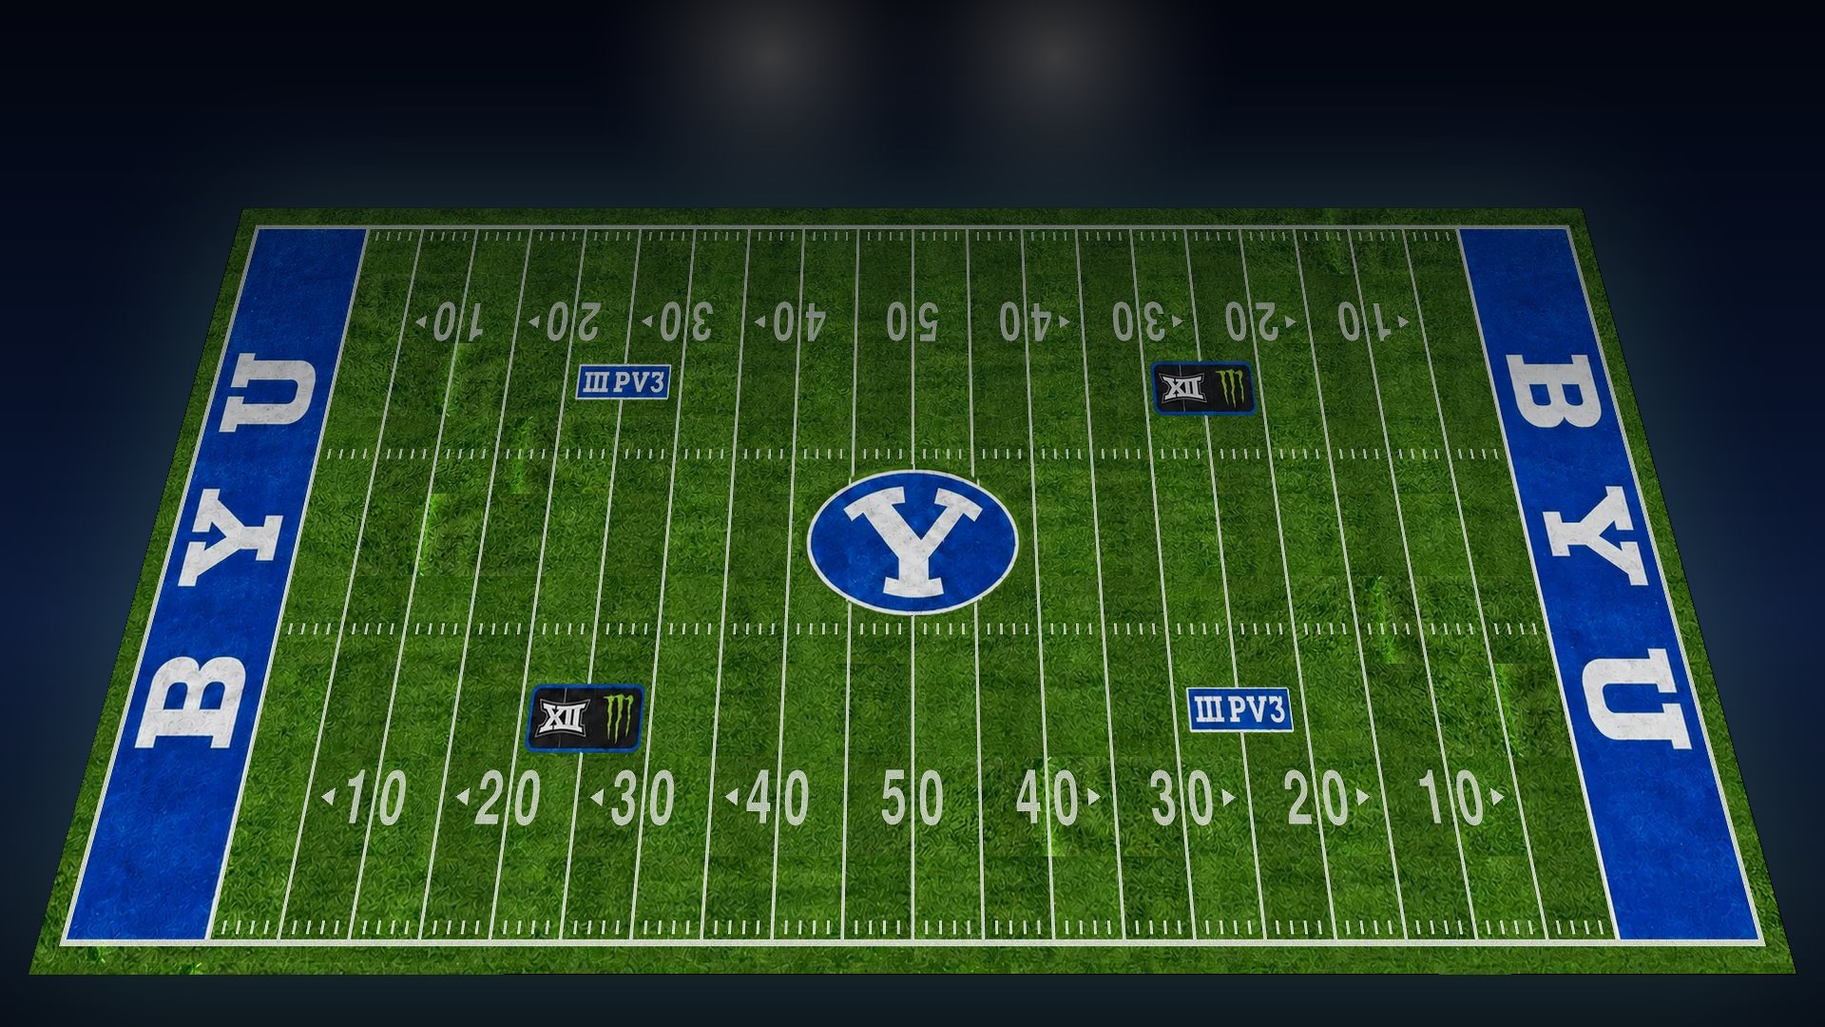
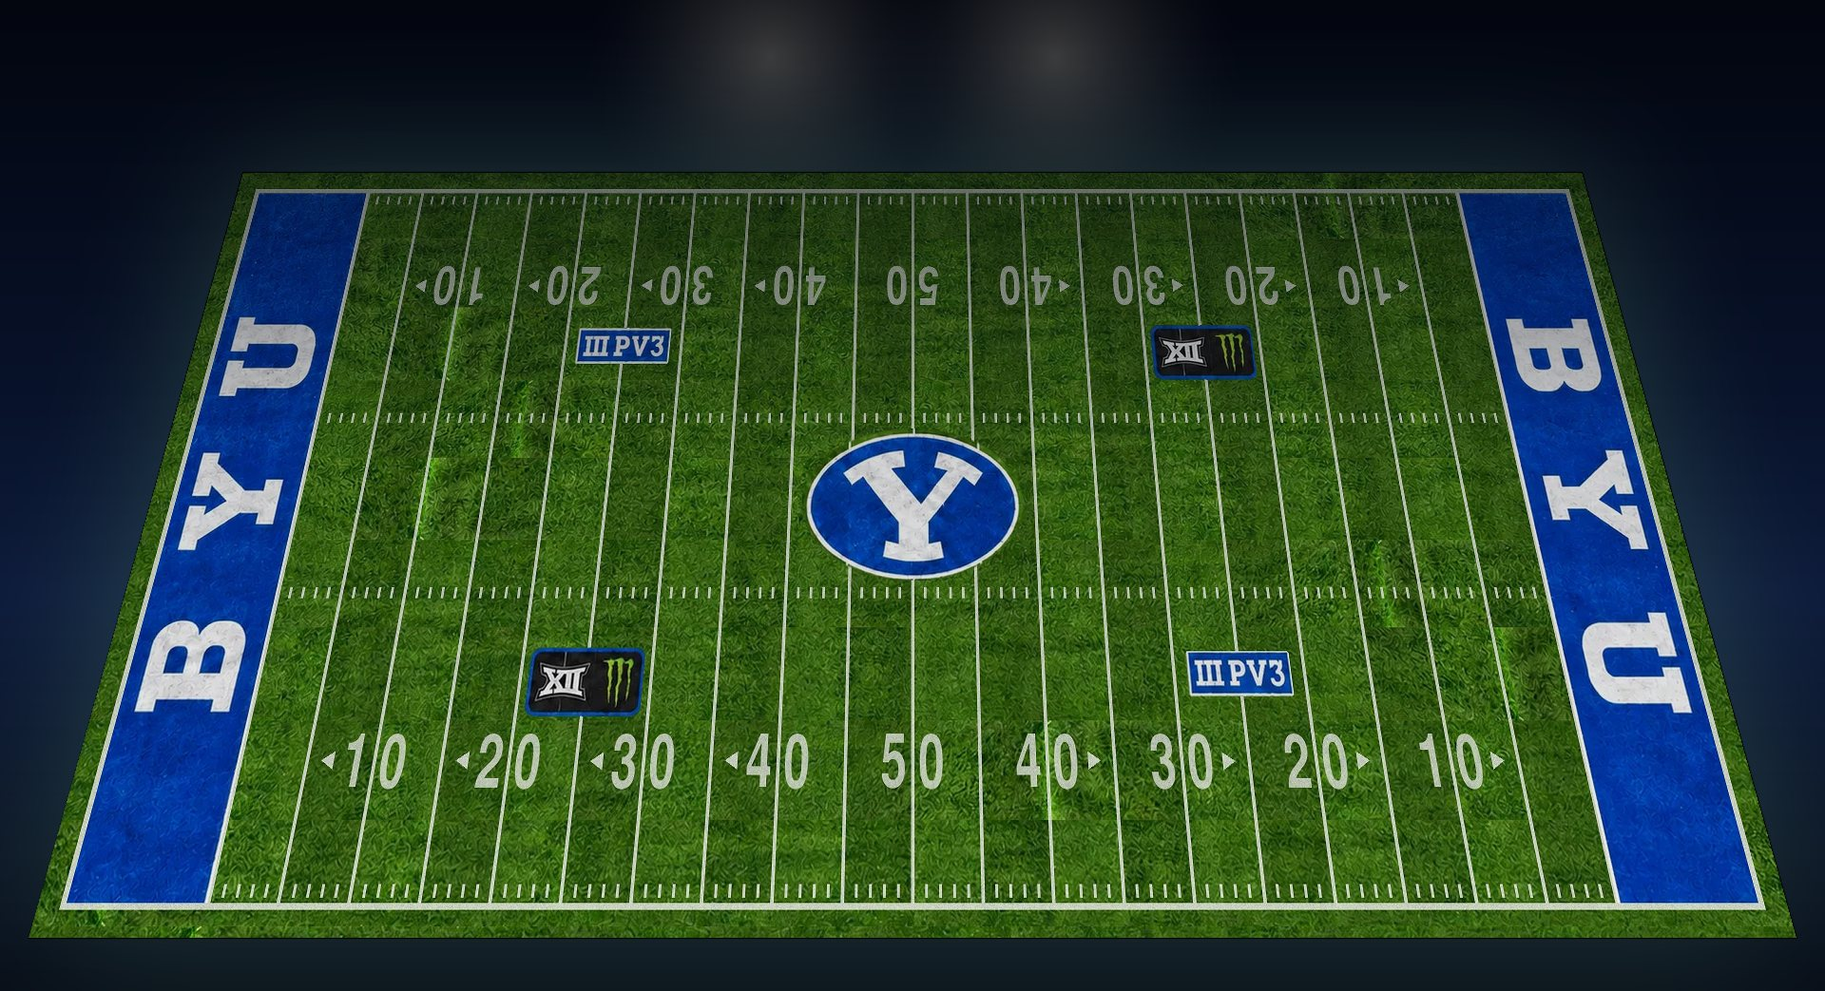
Field demo: fit the calendar's 1280x695 page, bigger text, no blurry load
- Rebake the background for 1280x695 (the calendar's page with its status
  strip) so the screen shows unscaled there, and save it as a baseline JPEG
- Keep the screen dark until the background has fully loaded
- Much bigger text; the stat and leader panels show six rows at a time and
  take turns between two pages every 10 s, back to page one on each play

Claude-Session: https://claude.ai/code/session_01Eu4A3Y6DEjyjs31EdA2X5n

Changed region(s): [[0.0, 0.1534, 1.0, 0.9511]]

diff --git a/scores/wall/field/index.html b/scores/wall/field/index.html
@@ -16,7 +16,8 @@
      same perspective math the picture was baked with. Nothing here is 3D and
      nothing is blurred live.
 
-     The whole screen is laid out at 1280x720 and scaled to fit the window.
+     The whole screen is laid out at 1280x695, the calendar's page size, so
+     it shows there unscaled; anywhere else it is scaled to fit the window.
      No ?. or ??, no flex gap: Chromium 74.
      --------------------------------------------------------------------------- */
   :root{
@@ -28,52 +29,54 @@
   html,body{height:100%;overflow:hidden;background:#03060F;}
   body{font-family:'Public Sans',Helvetica,Arial,sans-serif;color:var(--ink);font-variant-numeric:tabular-nums;
     -webkit-font-smoothing:antialiased;cursor:default;user-select:none;-webkit-user-select:none;}
-  #stage{position:absolute;left:0;top:0;width:1280px;height:720px;transform-origin:0 0;overflow:hidden;
-    background:#03060F url(lights.jpg) 0 0 / 1280px 720px no-repeat;}
+  #stage{position:absolute;left:0;top:0;width:1280px;height:695px;transform-origin:0 0;overflow:hidden;
+    background:#03060F url(lights.jpg) 0 0 / 1280px 695px no-repeat;visibility:hidden;}
+  #stage.ready{visibility:visible;}
   #overlay{position:absolute;left:0;top:0;pointer-events:none;}
   .abs{position:absolute;}
   .np{pointer-events:none;}
-  #tap{left:0;top:380px;width:1280px;height:340px;cursor:pointer;}
+  #tap{left:0;top:380px;width:1280px;height:315px;cursor:pointer;}
 
   /* ---- the ball and things that sit on the turf ---- */
   #ball{left:0;top:0;width:40px;height:25px;margin:-12px 0 0 -20px;border-radius:50%;
     background:radial-gradient(ellipse at 40% 35%,#A8622F 0%,#7A3F18 70%);border:3px solid #FFFFFF;
     box-shadow:0 4px 10px rgba(0,0,0,0.7);transition:transform 0.9s cubic-bezier(.3,.8,.3,1);will-change:transform;}
-  .chip{font-family:'Big Shoulders Display',sans-serif;font-weight:800;font-size:19px;line-height:22px;padding:0 7px;
+  .chip{font-family:'Big Shoulders Display',sans-serif;font-weight:800;font-size:24px;line-height:27px;padding:0 8px;
     border-radius:6px;background:rgba(0,0,0,0.62);white-space:nowrap;transform:translate(-50%,-100%);}
   .chip.last{background:#FFFFFF;color:#0B1220;}
   .chip.neg{background:var(--bad);color:#FFFFFF;}
   .chip.flag{background:#FFD633;color:#2A1405;}
   .chip.kick{color:var(--gold);}
-  #downbox{width:26px;height:26px;margin:-13px 0 0 -13px;border-radius:4px;background:#FF7A1A;text-align:center;
-    font-family:'Big Shoulders Display',sans-serif;font-weight:900;font-size:21px;line-height:26px;
-    box-shadow:0 2px 6px rgba(0,0,0,0.6);transition:transform 0.9s cubic-bezier(.3,.8,.3,1);}
+  #downbox{width:30px;height:30px;margin:-15px 0 0 -15px;border-radius:4px;background:#FF7A1A;text-align:center;
+    font-family:'Big Shoulders Display',sans-serif;font-weight:900;font-size:25px;line-height:30px;
+    box-shadow:0 2px 6px rgba(0,0,0,0.6);transition:transform 0.9s cubic-bezier(.3,.8,.3,1);z-index:2;}
 
   /* ---- top: score in the middle, panels either side ---- */
-  .panel{top:12px;width:424px;height:362px;padding:12px 18px;background:var(--panel);
+  .panel{top:10px;width:424px;height:350px;padding:10px 18px;background:var(--panel);
     border:1px solid rgba(255,255,255,0.12);border-radius:16px;}
-  .ph{display:flex;align-items:baseline;font-size:13px;font-weight:800;letter-spacing:2px;color:var(--dim);padding-bottom:4px;}
-  .ph .c{width:72px;text-align:right;}
+  .ph{display:flex;align-items:center;height:30px;font-size:15px;font-weight:800;letter-spacing:2px;color:var(--dim);}
+  .ph .c{width:86px;text-align:right;}
   .ph .c.byu{color:var(--byu);}
-  .ph .hint{font-size:11px;font-weight:600;letter-spacing:0;color:var(--faint);}
-  .row{display:flex;align-items:center;height:26px;border-top:1px solid var(--rule);font-size:18px;font-weight:700;}
-  .row .k{flex:1;min-width:0;font-size:15px;font-weight:500;color:rgba(255,255,255,0.78);white-space:nowrap;}
-  .row .c{width:72px;text-align:right;white-space:nowrap;}
+  .dots i{display:inline-block;width:9px;height:9px;border-radius:5px;margin-left:6px;background:rgba(255,255,255,0.2);}
+  .dots i.on{background:var(--gold);}
+  .row{display:flex;align-items:center;height:51px;border-top:1px solid var(--rule);font-size:30px;font-weight:700;}
+  .row .k{flex:1;min-width:0;font-size:22px;font-weight:500;color:rgba(255,255,255,0.78);white-space:nowrap;}
+  .row .c{width:86px;text-align:right;white-space:nowrap;}
   .row .c.o{color:var(--dim);}
   .row.fB .c.b,.row.fA .c.o{color:var(--gold);}
-  .ld{display:flex;align-items:center;height:26px;border-top:1px solid var(--rule);}
-  .ld .t{width:42px;font-size:11px;font-weight:800;letter-spacing:1px;color:var(--gold);}
+  .ld{display:flex;align-items:center;height:51px;border-top:1px solid var(--rule);}
+  .ld .t{width:52px;font-size:14px;font-weight:800;letter-spacing:1px;color:var(--gold);}
   .ld .t.o{color:var(--faint);}
-  .ld .n{flex:1;min-width:0;font-size:17px;font-weight:700;white-space:nowrap;overflow:hidden;text-overflow:ellipsis;}
+  .ld .n{flex:1;min-width:0;font-size:23px;font-weight:700;white-space:nowrap;overflow:hidden;text-overflow:ellipsis;}
   .ld .n.o{color:var(--dim);font-weight:600;}
-  .ld .v{font-size:15px;color:rgba(255,255,255,0.82);white-space:nowrap;margin-left:8px;}
+  .ld .v{font-size:21px;color:rgba(255,255,255,0.82);white-space:nowrap;margin-left:8px;}
   .ld .v.o{color:var(--faint);}
   .ld.new .n{color:var(--gold);}
 
-  #score{left:440px;top:10px;width:400px;display:flex;flex-direction:column;align-items:center;}
+  #score{left:438px;top:8px;width:404px;display:flex;flex-direction:column;align-items:center;}
   .sc{display:flex;align-items:flex-end;}
-  .tm{display:flex;flex-direction:column;align-items:center;width:132px;}
-  .tm .nm{font-size:16px;font-weight:700;white-space:nowrap;}
+  .tm{display:flex;flex-direction:column;align-items:center;width:124px;}
+  .tm .nm{font-size:21px;font-weight:700;white-space:nowrap;}
   .tm .pts{font-family:'Big Shoulders Display',sans-serif;font-weight:800;font-size:92px;line-height:0.9;}
   .tm.o .nm,.tm.o .pts{color:var(--dim);}
   .tos{height:8px;margin-top:3px;}
@@ -82,55 +85,55 @@
   .poss{display:inline-block;width:14px;height:9px;border-radius:50%;background:#A8622F;border:1.5px solid #FFFFFF;
     margin-right:5px;vertical-align:1px;visibility:hidden;}
   .poss.on{visibility:visible;}
-  .rk{color:var(--gold);font-size:12px;margin-right:4px;}
-  .mid{display:flex;flex-direction:column;align-items:center;width:136px;padding-bottom:14px;}
-  .clk{font-family:'Big Shoulders Display',sans-serif;font-weight:700;font-size:32px;color:var(--gold);}
-  .net{font-size:12px;font-weight:700;letter-spacing:2px;color:var(--faint);}
-  .dd{font-size:17px;font-weight:600;margin-top:2px;}
-  .lines{margin-top:6px;background:rgba(4,10,26,0.6);border-radius:10px;padding:4px 12px;font-size:14px;}
+  .rk{color:var(--gold);font-size:15px;margin-right:4px;}
+  .mid{display:flex;flex-direction:column;align-items:center;width:156px;padding-bottom:14px;}
+  .clk{font-family:'Big Shoulders Display',sans-serif;font-weight:700;font-size:36px;white-space:nowrap;color:var(--gold);}
+  .net{font-size:14px;font-weight:700;letter-spacing:2px;color:var(--faint);}
+  .dd{font-size:24px;font-weight:700;margin-top:2px;}
+  .lines{margin-top:6px;background:rgba(4,10,26,0.75);border-radius:10px;padding:4px 12px;font-size:18px;}
   .lines table{border-collapse:collapse;}
   .lines td{padding:1px 7px;text-align:center;color:rgba(255,255,255,0.8);}
-  .lines td.h{color:var(--faint);font-size:11px;font-weight:800;letter-spacing:1px;}
+  .lines td.h{color:var(--faint);font-size:13px;font-weight:800;letter-spacing:1px;}
   .lines td.t{text-align:left;font-weight:700;color:#FFFFFF;}
   .lines td.tot{font-weight:800;color:#FFFFFF;}
 
   /* timeouts and replays get a pill just under the score */
-  .pill{left:640px;top:226px;transform:translateX(-50%);white-space:nowrap;text-align:center;border-radius:12px;
+  .pill{left:640px;top:262px;transform:translateX(-50%);white-space:nowrap;text-align:center;border-radius:12px;
     padding:6px 16px 7px;background:rgba(3,6,15,0.9);border:1px solid rgba(255,231,163,0.5);display:none;}
   .pill.on{display:block;}
-  .pill .a{font-family:'Big Shoulders Display',sans-serif;font-weight:800;font-size:24px;letter-spacing:2px;color:var(--gold);}
-  .pill .b{font-size:13px;font-weight:600;color:var(--dim);}
+  .pill .a{font-family:'Big Shoulders Display',sans-serif;font-weight:800;font-size:32px;letter-spacing:2px;color:var(--gold);}
+  .pill .b{font-size:17px;font-weight:600;color:var(--dim);}
   #replay .a{color:#FFFFFF;}
   #replay .dot{display:inline-block;width:12px;height:12px;border-radius:6px;background:var(--bad);margin-right:8px;vertical-align:1px;}
 
-  #drive{right:16px;bottom:12px;max-width:560px;background:rgba(3,6,15,0.8);border-radius:10px;padding:8px 14px;}
-  #drive .a{font-size:12px;font-weight:700;letter-spacing:1px;color:var(--dim);}
-  #drive .b{font-size:17px;font-weight:600;margin-top:1px;}
-  #key{left:16px;bottom:60px;font-size:12px;font-weight:600;color:var(--dim);background:rgba(3,6,15,0.6);border-radius:8px;padding:5px 10px;}
+  #drive{right:14px;bottom:10px;max-width:640px;background:rgba(3,6,15,0.8);border-radius:10px;padding:8px 14px;}
+  #drive .a{font-size:15px;font-weight:700;letter-spacing:1px;color:var(--dim);}
+  #drive .b{font-size:23px;font-weight:600;margin-top:1px;}
+  #key{left:14px;bottom:62px;font-size:15px;font-weight:600;color:var(--dim);background:rgba(3,6,15,0.6);border-radius:8px;padding:5px 10px;}
   #key svg{vertical-align:middle;margin:0 4px 0 10px;}
   #key svg:first-child{margin-left:0;}
-  #btnDrives{left:16px;bottom:12px;font-size:14px;font-weight:800;letter-spacing:1px;color:#0B1220;background:#FFFFFF;
-    border-radius:20px;padding:9px 16px;cursor:pointer;}
-  #demo{left:160px;bottom:22px;font-size:12px;font-weight:700;letter-spacing:2px;color:var(--faint);}
+  #btnDrives{left:14px;bottom:10px;font-size:17px;font-weight:800;letter-spacing:1px;color:#0B1220;background:#FFFFFF;
+    border-radius:22px;padding:10px 18px;cursor:pointer;}
+  #demo{left:180px;bottom:22px;font-size:13px;font-weight:700;letter-spacing:2px;color:var(--faint);}
 
   /* ---- touchdown ---- */
-  #td{left:0;right:0;top:400px;text-align:center;font-family:'Big Shoulders Display',sans-serif;font-weight:900;
+  #td{left:0;right:0;top:390px;text-align:center;font-family:'Big Shoulders Display',sans-serif;font-weight:900;
     font-size:150px;line-height:1;letter-spacing:4px;color:#FFFFFF;text-shadow:0 6px 30px rgba(0,46,93,0.9);
     opacity:0;transform:scale(0.7);transition:opacity .35s, transform .5s cubic-bezier(.2,1.4,.4,1);}
   #td.on{opacity:1;transform:none;}
 
   /* ---- every drive: flat field, one bar per drive ---- */
-  #drives{left:0;top:0;width:1280px;height:720px;background:#0B1220;display:none;cursor:pointer;}
+  #drives{left:0;top:0;width:1280px;height:695px;background:#0B1220;display:none;cursor:pointer;}
   #drives.on{display:block;}
-  #drives .hd{position:absolute;left:24px;right:24px;top:10px;height:54px;display:flex;align-items:center;}
+  #drives .hd{position:absolute;left:24px;right:24px;top:4px;height:52px;display:flex;align-items:center;}
   #drives .ttl{font-family:'Big Shoulders Display',sans-serif;font-weight:800;font-size:32px;letter-spacing:1px;margin-right:18px;}
   #drives .sub{font-size:17px;color:var(--dim);}
   #drives .sco{margin-left:auto;font-size:20px;font-weight:700;}
   #drives .sco b{font-family:'Big Shoulders Display',sans-serif;font-weight:800;font-size:34px;margin:0 16px 0 6px;}
   #drives .sco .o{color:var(--dim);}
   #drives .sco .q{font-family:'Big Shoulders Display',sans-serif;font-size:26px;color:var(--gold);}
-  #flat{left:20px;top:72px;width:1240px;height:573px;border-radius:6px;}
-  #flatDim{left:20px;top:72px;width:1240px;height:573px;border-radius:6px;background:rgba(4,14,9,0.5);}
+  #flat{left:20px;top:60px;width:1240px;height:573px;border-radius:6px;}
+  #flatDim{left:20px;top:60px;width:1240px;height:573px;border-radius:6px;background:rgba(4,14,9,0.5);}
   .bar{position:absolute;border-radius:15px;font-family:'Big Shoulders Display',sans-serif;font-weight:800;font-size:18px;
     white-space:nowrap;box-shadow:0 3px 10px rgba(0,0,0,0.5);display:flex;align-items:center;cursor:pointer;}
   .bar.BYU{background:#FFFFFF;color:#002E5D;justify-content:flex-end;padding-right:14px;}
@@ -140,7 +143,7 @@
   .bar .out{position:absolute;color:#FFFFFF;}
   .half{position:absolute;left:40px;width:1200px;height:2px;background:rgba(255,255,255,0.8);}
   .halfT{position:absolute;left:46px;font-family:'Big Shoulders Display',sans-serif;font-weight:800;font-size:14px;letter-spacing:3px;color:rgba(255,255,255,0.85);}
-  #drives .ft{position:absolute;left:24px;right:24px;top:656px;height:54px;display:flex;align-items:center;font-size:17px;color:rgba(255,255,255,0.85);}
+  #drives .ft{position:absolute;left:24px;right:24px;top:638px;height:54px;display:flex;align-items:center;font-size:19px;color:rgba(255,255,255,0.85);}
   #drives .ft .k{display:inline-block;width:26px;height:12px;border-radius:6px;margin:0 8px 0 0;vertical-align:-1px;}
   #drives .ft span.it{margin-right:26px;}
   #drives .ft .back{margin-left:auto;font-size:16px;font-weight:700;color:#0B1220;background:#FFFFFF;border-radius:22px;padding:10px 18px;}
@@ -148,7 +151,7 @@
 </head>
 <body>
 <div id="stage">
-  <svg id="overlay" width="1280" height="720" viewBox="0 0 1280 720" aria-hidden="true">
+  <svg id="overlay" width="1280" height="695" viewBox="0 0 1280 695" aria-hidden="true">
     <g id="lines"></g>
     <g id="trail"></g>
   </svg>
@@ -158,7 +161,7 @@
   <div class="abs np" id="ball" style="transition:none"></div>
 
   <div class="abs panel" style="left:12px">
-    <div class="ph"><span style="flex:1">TEAM STATS</span><span class="c">ISU</span><span class="c byu">BYU</span></div>
+    <div class="ph"><span style="flex:1"><span id="tT">TEAM STATS</span><span class="dots" id="tD"></span></span><span class="c">ISU</span><span class="c byu">BYU</span></div>
     <div id="team"></div>
   </div>
 
@@ -173,7 +176,7 @@
   </div>
 
   <div class="abs panel" style="right:12px">
-    <div class="ph"><span style="flex:1">LEADERS</span><span class="hint">by yards · tackles · sacks</span></div>
+    <div class="ph"><span style="flex:1" id="lT">BYU OFFENSE</span><span class="dots" id="lD"></span></div>
     <div id="leaders"></div>
   </div>
 
@@ -213,11 +216,11 @@
 <script>
 /* ===========================================================================
    Perspective: the picture was baked as a 1240x573 plane (the field image) at
-   (20,110) tilted back 38deg with perspective 1100px, perspective origin at
+   (20,85) tilted back 38deg with perspective 1100px, perspective origin at
    50% -40%. project() maps a point on that plane to the screen, so anything
    drawn here lands on the right spot of the turf.
    =========================================================================== */
-var PW = 1240, PH = 573, OX = 20, OY = 110, D = 1100, TH = 38 * Math.PI / 180;
+var PW = 1240, PH = 573, OX = 20, OY = 85, D = 1100, TH = 38 * Math.PI / 180;
 var POX = PW / 2, POY = -0.4 * PH;
 function project(u, v){
   var X = u - PW / 2, Y = v - PH;
@@ -239,11 +242,11 @@ function signed(n){ return n > 0 ? '+' + n : n < 0 ? MINUS + (-n) : '0'; }
 
 /* ---------------------------- fit the window ---------------------------- */
 function fit(){
-  var k = Math.min(window.innerWidth / 1280, window.innerHeight / 720);
+  var k = Math.min(window.innerWidth / 1280, window.innerHeight / 695);
   var st = $('stage');
   st.style.transform = 'scale(' + k + ')';
   st.style.left = Math.round((window.innerWidth - 1280 * k) / 2) + 'px';
-  st.style.top = Math.round((window.innerHeight - 720 * k) / 2) + 'px';
+  st.style.top = Math.round((window.innerHeight - 695 * k) / 2) + 'px';
 }
 window.addEventListener('resize', fit);
 fit();
@@ -395,7 +398,7 @@ function drawField(){
 
   placeAt($('ball'), spot(v.spot, LANE));
   // the chain crew stands on the near sideline
-  var db = $('downbox'); db.textContent = v.down; db.style.visibility = v.over ? 'hidden' : ''; placeAt(db, spot(v.spot, 55));
+  var db = $('downbox'); db.textContent = v.down; db.style.visibility = v.over ? 'hidden' : ''; placeAt(db, spot(v.spot, 51));
 
   // drive card
   var net = 0, last = v.plays[v.plays.length - 1];
@@ -406,6 +409,15 @@ function drawField(){
 }
 
 /* ------------------------------ panels ------------------------------ */
+// Both panels flip between two pages every 10 s, and jump back to the first
+// page (yards, the leaders on offense) whenever a play happens.
+var statPage = 0, pageTimer = 0;
+function dots(){ return '<i' + (statPage ? '' : ' class="on"') + '></i><i' + (statPage ? ' class="on"' : '') + '></i>'; }
+function firstPage(){
+  statPage = 0;
+  clearInterval(pageTimer);
+  pageTimer = setInterval(function(){ statPage = 1 - statPage; teamRows(); leaderRows(); }, 10000);
+}
 function teamRows(){
   var a = state.stats.ISU, h = state.stats.BYU;
   var ypp = function(s){ return s.plays ? (s.yds / s.plays).toFixed(1) : '0.0'; };
@@ -423,6 +435,10 @@ function teamRows(){
     ['Turnovers', a.to, h.to, 'to'],
     ['Possession', a.top, h.top, ''],
   ];
+  // Big enough to read across the kitchen means six rows at a time: two pages that take turns.
+  rows = statPage ? [rows[7], rows[8], rows[5], rows[9], rows[10], rows[11]] : [rows[0], rows[1], rows[2], rows[3], rows[4], rows[6]];
+  $('tT').textContent = statPage ? 'DOWNS & MORE' : 'TEAM STATS';
+  $('tD').innerHTML = dots();
   var f = state.flash, fc = f.team === 'BYU' ? ' fB' : ' fA';
   $('team').innerHTML = rows.map(function(r){
     return '<div class="row' + (r[3] && f.keys.indexOf(r[3]) >= 0 ? fc : '') + '"><span class="k">' + r[0] +
@@ -441,6 +457,7 @@ function teamRows(){
           KICK  the kicker
      ISU  one line each for passing, rushing and receiving yards
    So a name can move up or drop off as the game goes; a new name shows gold.
+   Page 1 is BYU's offense; page 2 is the BYU defense, the kicker and ISU.
    --------------------------------------------------------------------------- */
 function best(list, key, n, tie){
   return list.slice().sort(function(x, y){ return (y[key] - x[key]) || (tie ? y[tie] - x[tie] : 0); }).slice(0, n);
@@ -451,25 +468,28 @@ function leaderRows(){
   var td = function(n){ return n ? ' · ' + (n > 1 ? n + ' TD' : 'TD') : ''; };
   var p = best(B.pass, 'y', 1)[0];
   add('PASS', true, p, p.c + '/' + p.a + ' · ' + p.y + ' · ' + p.td + ' TD' + (p.int ? ' · ' + p.int + ' INT' : ''));
-  p = best(A.pass, 'y', 1)[0];
-  add('ISU', false, p, p.c + '/' + p.a + ' · ' + p.y);
   best(B.rush, 'y', 2).forEach(function(r){ add('RUSH', true, r, r.car + ' · ' + r.y + td(r.td)); });
-  p = best(A.rush, 'y', 1)[0];
-  add('ISU', false, p, p.car + ' · ' + p.y);
   best(B.rec, 'y', 3).forEach(function(r){ add('REC', true, r, r.r + ' · ' + r.y + td(r.td)); });
-  p = best(A.rec, 'y', 1)[0];
-  add('ISU', false, p, p.r + ' · ' + p.y);
   p = best(B.def, 'tkl', 1, 'tfl')[0];
   add('DEF', true, p, p.tkl + ' tkl · ' + p.tfl + ' TFL' + (p.int ? ' · INT' : ''));
   p = best(B.def, 'sk', 1, 'tfl')[0];
   if(p.sk) add('SACK', true, p, p.sk + (p.sk === 1 ? ' sack' : ' sacks'));
   else { p = best(B.def, 'tfl', 1)[0]; add('TFL', true, p, p.tfl + ' TFL'); }
   p = B.kick[0];
-  add('KICK', true, p, 'FG ' + p.fgm + '/' + p.fga + (p.lng ? ' · long ' + p.lng : '') + ' · XP ' + p.xpm + '/' + p.xpa);
+  add('KICK', true, p, 'FG ' + p.fgm + '/' + p.fga + (p.lng ? ' · ' + p.lng : '') + ' · XP ' + p.xpm + '/' + p.xpa);
+  p = best(A.pass, 'y', 1)[0];
+  add('ISU', false, p, p.c + '/' + p.a + ' · ' + p.y);
+  p = best(A.rush, 'y', 1)[0];
+  add('ISU', false, p, p.car + ' · ' + p.y);
+  p = best(A.rec, 'y', 1)[0];
+  add('ISU', false, p, p.r + ' · ' + p.y);
 
   var before = state.leaderNames, now = lines.map(function(l){ return l.tag + l.name; });
-  $('leaders').innerHTML = lines.map(function(l, i){
-    var o = l.own ? '' : ' o', isNew = before && before.indexOf(now[i]) < 0;
+  $('lT').textContent = statPage ? 'DEFENSE · IOWA STATE' : 'BYU OFFENSE';
+  $('lD').innerHTML = dots();
+  var first = statPage ? 6 : 0;
+  $('leaders').innerHTML = lines.slice(first, first + 6).map(function(l, i){
+    var o = l.own ? '' : ' o', isNew = before && before.indexOf(now[first + i]) < 0;
     return '<div class="ld' + (isNew ? ' new' : '') + '"><span class="t' + o + '">' + l.tag + '</span><span class="n' + o + '">' +
            esc(l.name) + '</span><span class="v' + o + '">' + esc(l.val) + '</span></div>';
   }).join('');
@@ -515,7 +535,7 @@ function drawDrives(){
   $('dvA').textContent = g.score.ISU; $('dvH').textContent = g.score.BYU; $('dvC').textContent = 'Q4 ' + g.clock;
   var list = state.drives.slice();
   if(!state.over && state.cur.plays.length) list.push({ team: state.cur.team, start: state.cur.start, end: g.spot, result: 'NOW', q: 4, now: true });
-  var sep = 22, n = list.length, h = Math.min(42, (537 - sep) / Math.max(n, 1)), bh = Math.max(16, Math.round(h - 8)), y = 90, html = '';
+  var sep = 22, n = list.length, h = Math.min(42, (537 - sep) / Math.max(n, 1)), bh = Math.max(16, Math.round(h - 8)), y = 78, html = '';
   list.forEach(function(d, i){
     if(i && list[i - 1].q <= 2 && d.q >= 3){
       html += '<div class="half" style="top:' + (y + sep / 2 - 6).toFixed(0) + 'px"></div><div class="halfT" style="top:' + (y + sep / 2 - 2).toFixed(0) + 'px">HALFTIME</div>';
@@ -777,6 +797,7 @@ function step(){
   }
 
   var r = runPlay(e);
+  firstPage();
   render();
   if(r === 'td'){
     state.hold = true;
@@ -803,11 +824,24 @@ function restart(){
   state = fresh(); snapBall(); render(); later(2500);
 }
 
-state = fresh();
-render();
-// Place the ball without sliding it in from the corner, then let later moves animate.
-snapBall();
-later(2500);
+// Start only once the background picture has fully arrived, so the screen
+// never shows it half-loaded; give up waiting after 20 s and start anyway.
+var started = false;
+function start(){
+  if(started) return;
+  started = true;
+  state = fresh();
+  firstPage();
+  render();
+  // Place the ball without sliding it in from the corner, then let later moves animate.
+  snapBall();
+  $('stage').className = 'ready';
+  later(2500);
+}
+var bg = new Image();
+bg.onload = start; bg.onerror = start;
+bg.src = 'lights.jpg';
+setTimeout(start, 20000);
 </script>
 </body>
 </html>
